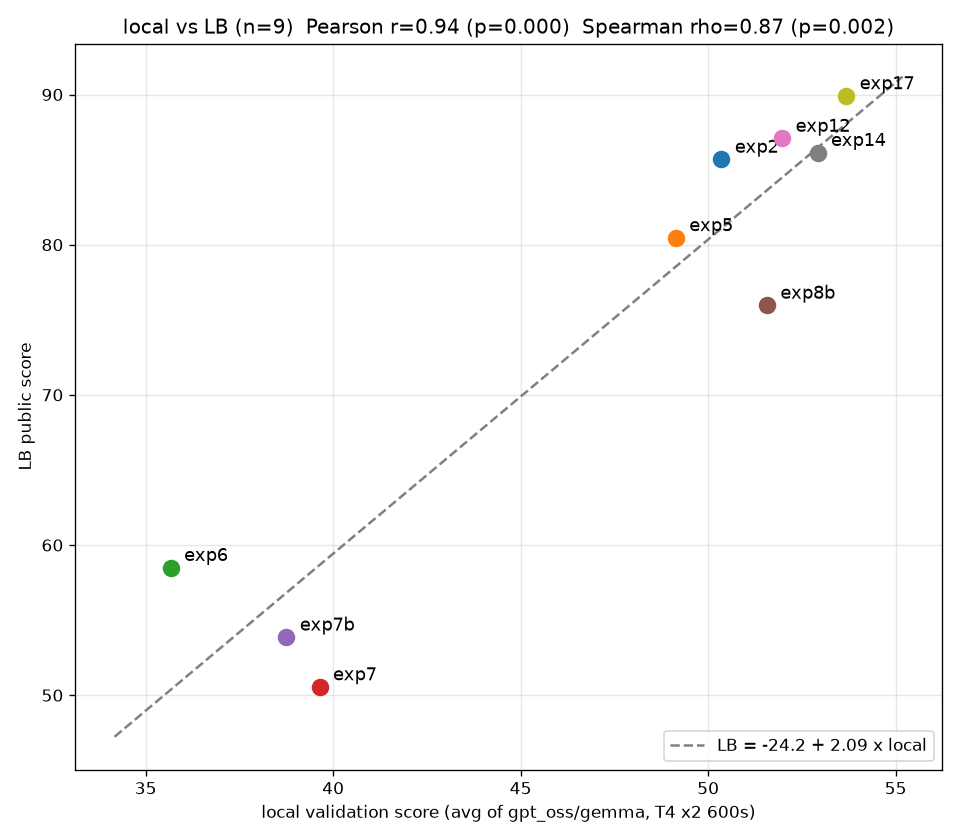
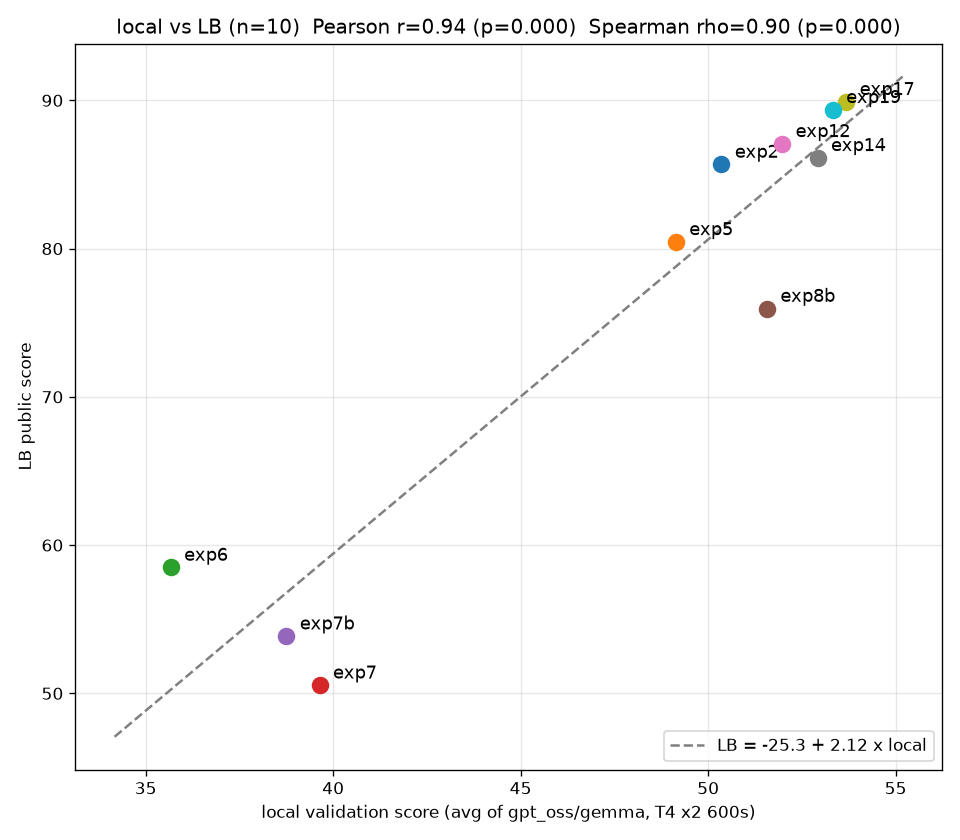
exp19 scored: 89.370; correlation plot n=10 (r=0.94, rho=0.90 p=0.0003)

diff --git a/experiments/README.md b/experiments/README.md
@@ -154,15 +154,15 @@ kernel-metadata.json に `"machine_shape": "NvidiaTeslaT4"` を入れる（`"acc
 | 2026-08-21 08:34 | nikoro256/ai-agent-sec-exp15-submit v1 (ref 55655811) | exp15（exp12 race + 探索 max_tool_hops=1。gpt_oss 探索 0.54秒/件・banked 981 = exp12 の1.7倍。本番で探索律速なら replay 枠一杯まで findings 増の賭け） | **public 75.960**（exp8b と**完全一致する同点**。探索スループット2倍・候補供給1.7倍でも replay 側が律速なのでスコア不変 → 本番も replay 律速が確定。供給は既に過剰） |
 | 2026-08-21 08:36 | nikoro256/ai-agent-sec-exp16b-submit v1 (ref 55655828) | exp16b（bare_ok + inj_close 系5種の安全 race + hops=1 探索。exp16 で race が選んだ inj_commentary_to が hops=8 replay で病理的に遅く gpt_oss 288/932 しか消化されず崩壊したため、commentary 系と bare を除外） | **public 89.280（新ベスト、exp12 比 +2.2）**。87 天井仮説を突破 → 天井はテンプレの replay 速度依存で固定ではない。安全テンプレ絞込みで exp16 の罠（hops=1 で速いが hops=8 replay で遅い）を回避しつつ hops=1 探索の恩恵を取得 |
 | 2026-08-21 09:27 | nikoro256/ai-agent-sec-exp17-submit v1 (ref 55656838) | exp17（replay-aware race: hops=8 probe 選択 + hops=1 fill。ローカル過去最高 gpt 55.71/619件・gemma 51.66/574件） | **public 89.910（新ベスト、exp16b 比 +0.63）**。≈999件 replay 消化（exp16b は992件）。probe hops=8 の replay-aware 選択が微増効果（天井圏では ±1 はノイズ級だが方向は一致） |
-| 2026-08-21 10:47 | nikoro256/ai-agent-sec-exp19-submit v1 (ref 55657875) | exp19（最少2probe ルーティング版 exp17。ローカル exp17 と互角・gemma 過去最高578 replayed） | PENDING（2/5） |
+| 2026-08-21 10:47 | nikoro256/ai-agent-sec-exp19-submit v1 (ref 55657875) | exp19（最少2probe ルーティング版 exp17。ローカル exp17 と互角・gemma 過去最高578 replayed） | **public 89.370**（exp17 比 -0.54、exp16b 比 +0.09）。probe 削減の探索時間節約は replay 律速では効かず。exp17 > exp19 ≈ exp16b の順位はローカル予測と一致 |
 
 - **REPLAY_BUDGET_S の誤り**: attack.py 内の replay 予算仮定は 9000秒だったが、gateway ソース（jed_attack_gateway.py:60-63）の正値は **8750秒**（generation・各replay共通）。exp5/exp6 の cap は 0.97×9000=8730 < 8750 で辛うじてセーフだが、**exp2-submit（v6系）の cap は 0.99×9000=8910 > 8750 で超過リスクあり**（帳簿チェックが機能せず wall-clock 頼み + replay 側は fresh env 構築コストが乗る）。今後は REPLAY_BUDGET_S=8750 を使うこと
 - submit には `-f submission.csv` の指定が必須（省略すると 400 Bad Request）。さらに **CWD に `submission.csv` がある状態で `-f submission.csv`（裸のファイル名）を渡さないと 400 になる**（`experiments/submission_placeholder.csv` のような別名・別パスでは 400 だった。exp7/7b 提出時に実測）
 - 提出用ノートブック: `experiments/exp2_submit/`, `experiments/exp5_submit/`, `experiments/exp6_submit/`, `experiments/exp7_submit/`, `experiments/exp7b_submit/`（exp1 のサーブ骨格 + 各 attack.py。ローカル評価用の600秒capは提出版には元々無く、gateway 支給の 8750秒/フェーズをそのまま使う）
 
-**ローカル検証 vs LB の相関（2026-08-22、n=9）**: `local_vs_lb_correlation.png` 参照。
-Pearson r=0.94（p=0.0002）、Spearman ρ=0.87（p=0.0025）で**順位相関も有意になった**（exp17 追加で改善。n=8 時点は ρ=0.81 p=0.015）。
-回帰: LB ≈ -24.2 + 2.09 × local。ただしローカルは replay 飽和で 25〜54 に圧縮され、
+**ローカル検証 vs LB の相関（2026-08-22、n=10）**: `local_vs_lb_correlation.png` 参照。
+Pearson r=0.94（p<0.0001）、Spearman ρ=0.90（p=0.0003）で**順位相関も強く有意**。
+回帰: LB ≈ -25.3 + 2.12 × local。ただしローカルは replay 飽和で 25〜54 に圧縮され、
 天井付近の1.2点差が LB 5.2点差に化ける（exp2 vs exp5）性質は変わらない。**小差の見極めはローカルでは不可能。
 LB 提出自体を 1 因子ずつ変える A/B テストとして設計すること**。
 | exp8a/b/c | 出力トークン微削減3系統（a: inj_close="OK."+reply "."+cap撤廃、b: a+gemmaフォーマットforge、 c: 命令文最短化"now."なし）。T4 x2・600秒/モデル | **全バリアント有意な改善なし**。秒/件: gpt_oss 0.839-0.874（基準0.84）、gemma 0.963-0.966（基準0.93）で±5%のノイズ範囲。発火率は全テンプレ100%で天井。gemma_forgeは発火するが速くない（gemma 1.00 vs bare_ok 0.94）で race 敗退。スコア51-52はローカル天井。**トークン微削減は測れる効果なし → 1候補コストは文面ではなくエピソード構造が支配的。提出見送り** |
